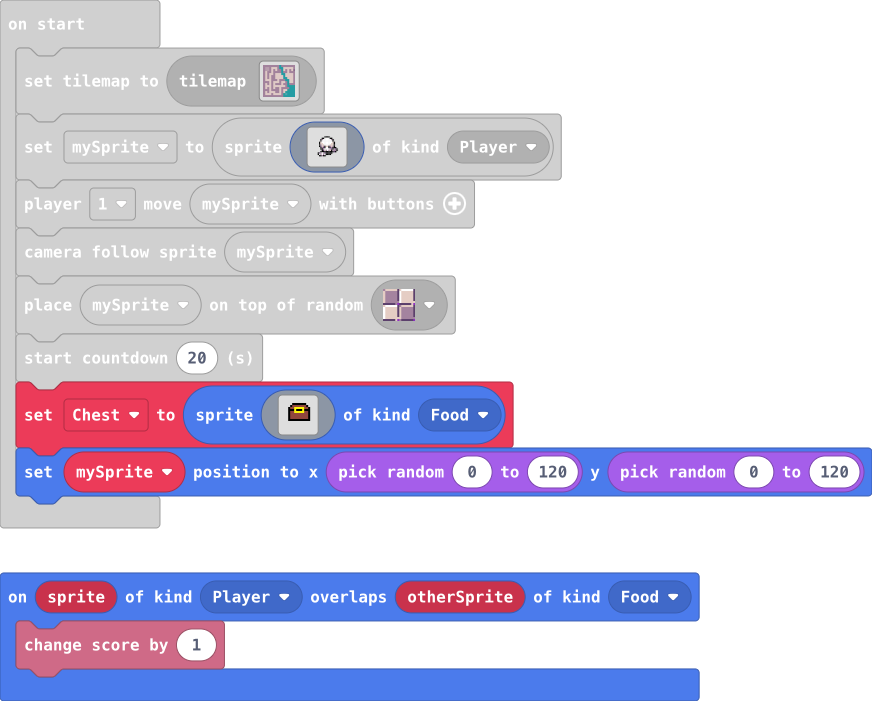
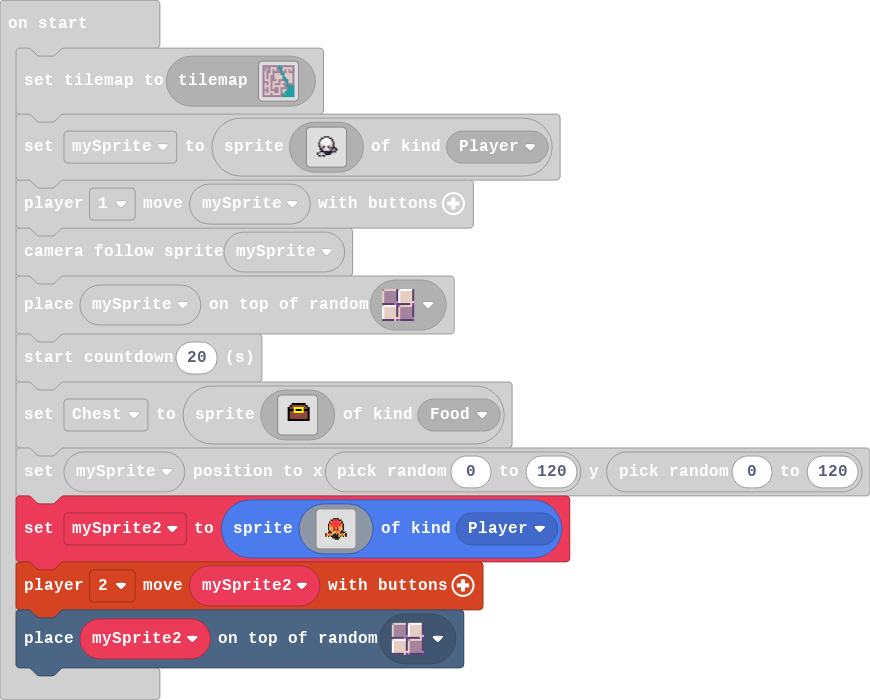
Update main.blocks, main.ts

diff --git a/main.ts b/main.ts
@@ -51,3 +51,31 @@ let Chest = sprites.create(img`
     . . . . . . . . . . . . . . . . 
     `, SpriteKind.Food)
 mySprite.setPosition(randint(0, 120), randint(0, 120))
+let mySprite2 = sprites.create(img`
+    ........................
+    ........................
+    ........................
+    ........................
+    ..........ffff..........
+    ........ff2222ff........
+    .......f52222225f.......
+    .......f22222222f.......
+    ......f4222222224f......
+    ......f4222222224f......
+    ......f4442222444f......
+    ......f545f44f545f......
+    ......fd4df22fd4df......
+    .......f52222225f.......
+    ......fffd45254ffff.....
+    ....fd222d5f5fd222df....
+    ....f25252ffff25252f....
+    ....f5f5ffffff5f5f5f....
+    .........ffffff.........
+    ...........fff..........
+    ........................
+    ........................
+    ........................
+    ........................
+    `, SpriteKind.Player)
+controller.player2.moveSprite(mySprite2)
+tiles.placeOnRandomTile(mySprite2, sprites.dungeon.floorMixed)
